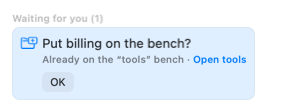
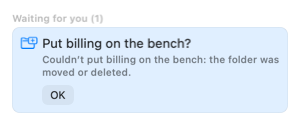
docs(design): merge-benches mockups and the new suggest-card failure text (#2003)

Changed region(s): [[0.03, 0.1071, 0.96, 0.9107], [0.15, 0.6964, 0.24, 0.8036], [0.3, 0.1071, 0.36, 0.1339]]

diff --git a/WatchtowerDesktop/Tests/DesignShots/MultiFolderShotFixtures.swift b/WatchtowerDesktop/Tests/DesignShots/MultiFolderShotFixtures.swift
@@ -20,9 +20,12 @@ enum MultiFolderShotFixtures {
             shot("suggest-card", width: 300) { MultiFolderSuggestCard(state: .ready) },
             shot("suggest-card-busy", width: 300) { MultiFolderSuggestCard(state: .busy) },
             shot("suggest-card-error", width: 300) { MultiFolderSuggestCard(state: .error) },
+            shot("suggest-card-merge", width: 300) { MultiFolderSuggestCard(state: .merge) },
             shot("remove-confirm", width: 360) { MultiFolderRemoveDialog(kind: .confirm) },
             shot("remove-refused-sessions", width: 360) { MultiFolderRemoveDialog(kind: .sessionsRunning) },
             shot("remove-refused-last", width: 360) { MultiFolderRemoveDialog(kind: .lastFolder) },
+            shot("merge-confirm", width: 360) { MultiFolderMergeDialog(refused: false) },
+            shot("merge-refused", width: 360) { MultiFolderMergeDialog(refused: true) },
             shot("feed-parent", width: 600) { MultiFolderFeedParent() },
             shot("strip-child", width: 760) { MultiFolderStripChild() },
             shot("board-card-folder", width: 380) { MultiFolderBoardCards() }
@@ -54,8 +57,14 @@ enum MultiFolderMockCopy {
     static let notNow = "Not Now"
     static let never = "Never for This Folder"
     static let putting = "Putting on the bench…"
-    static let alreadyOnOther = "Already on the “tools” bench"
-    static let openOther = "Open tools"
+    static let mergeSuggestSubtitle = "billing is on the “tools” bench"
+    static let mergeBenches = "Merge Benches…"
+    static let suggestFailed = "Couldn’t put billing on the bench: the folder was moved or deleted."
+    static let mergeTitle = "Merge “tools” into “acme”?"
+    static let mergeMessage = "tools's board (12 targets), asks and sessions move to acme, "
+        + "and tools leaves the workbench list. Folders that move: billing."
+    static let mergeRefusedTitle = "Can’t merge “tools” yet"
+    static let mergeRefused = "2 sessions are running in tools. Finish them first."
     static let removeTitle = "Remove hub from the bench?"
     static let removeMessage = "Watchtower's install in this folder is removed. Your files and git are not touched."
     static let sessionsRunning = "2 sessions are running in hub. Finish them first."
@@ -425,7 +434,7 @@ private struct MultiFolderNewSessionMenu: View {
 // MARK: - 6. The agent's folder suggestion
 
 private struct MultiFolderSuggestCard: View {
-    enum State { case ready, busy, error }
+    enum State { case ready, busy, error, merge }
     let state: State
 
     var body: some View {
@@ -449,10 +458,10 @@ private struct MultiFolderSuggestCard: View {
     }
 
     @ViewBuilder private var subtitle: some View {
-        if state == .error {
-            Text("\(MultiFolderMockCopy.alreadyOnOther) · \(Text(MultiFolderMockCopy.openOther).foregroundStyle(Color.accentColor))")
-        } else {
-            Text(MultiFolderMockCopy.suggestSubtitle)
+        switch state {
+        case .error: Text(MultiFolderMockCopy.suggestFailed)
+        case .merge: Text(MultiFolderMockCopy.mergeSuggestSubtitle)
+        default: Text(MultiFolderMockCopy.suggestSubtitle)
         }
     }
 
@@ -475,6 +484,12 @@ private struct MultiFolderSuggestCard: View {
             }
         case .error:
             Button("OK") {}.buttonStyle(.kitSecondary).controlSize(.small)
+        case .merge:
+            HStack(spacing: Spacing.small) {
+                Button(MultiFolderMockCopy.mergeBenches) {}.buttonStyle(.kitPrimary).fixedSize()
+                Button(MultiFolderMockCopy.notNow) {}.buttonStyle(.kitSecondary).fixedSize()
+            }
+            .controlSize(.small)
         }
     }
 }
@@ -533,6 +548,41 @@ private struct MultiFolderRemoveDialog: View {
         } else {
             Button("OK") {}.buttonStyle(.kitPrimary)
         }
+    }
+}
+
+/// The Merge Benches confirmation and its refusal (§6.13), drawn like the
+/// remove dialog.
+private struct MultiFolderMergeDialog: View {
+    let refused: Bool
+
+    var body: some View {
+        VStack(spacing: Spacing.medium) {
+            Image(systemName: refused ? "exclamationmark.triangle" : "arrow.triangle.merge")
+                .font(.largeTitle)
+                .foregroundStyle(refused ? AnyShapeStyle(Tone.warning) : AnyShapeStyle(.secondary))
+            VStack(spacing: Spacing.small) {
+                Text(refused ? MultiFolderMockCopy.mergeRefusedTitle : MultiFolderMockCopy.mergeTitle).font(.headline)
+                Text(refused ? MultiFolderMockCopy.mergeRefused : MultiFolderMockCopy.mergeMessage)
+                    .font(.callout).foregroundStyle(.secondary)
+            }
+            .multilineTextAlignment(.center)
+            .fixedSize(horizontal: false, vertical: true)
+            if refused {
+                Button("OK") {}.buttonStyle(.kitPrimary)
+            } else {
+                HStack(spacing: Spacing.regular) {
+                    Button("Cancel") {}.buttonStyle(.kitSecondary)
+                    Button("Merge") {}.buttonStyle(.kitPrimary)
+                }
+            }
+        }
+        .padding(Spacing.page)
+        .frame(width: 300)
+        .mockPopover()
+        .padding(Spacing.page)
+        .frame(maxWidth: .infinity)
+        .detailBackground()
     }
 }
 

diff --git a/docs/design/mockups/multi-folder/README.md b/docs/design/mockups/multi-folder/README.md
@@ -21,10 +21,13 @@ Each shot `workbench-multifolder-<name>` is saved here as `<name>-light.png` and
 | `new-session-menu` | New Session (+) menu with `in <folder>` submenus (the `in hub` one open) and the placement submenus | §6.4 |
 | `suggest-card` | Waiting for you card `Put billing on the bench?` with Put on Bench / Not Now, and the quiet Never for This Folder on its own line (the panel is 220 pt wide by default) | §6.7 |
 | `suggest-card-busy` | The same card while the add runs: `Putting on the bench…` | §6.7 |
-| `suggest-card-error` | The add failed: `Already on the “tools” bench · Open tools` and `OK` | §6.7 |
+| `suggest-card-error` | The add failed: `Couldn’t put billing on the bench: the folder was moved or deleted.` and `OK` | §6.7 |
+| `suggest-card-merge` | The card when the folder is on another bench: `Put billing on the bench?` / `billing is on the “tools” bench` with Merge Benches… / Not Now | §6.7, §6.13 |
 | `remove-confirm` | `Remove hub from the bench?` confirmation | §6.3 |
 | `remove-refused-sessions` | Refusal: `2 sessions are running in hub. Finish them first.` | §6.3 |
 | `remove-refused-last` | Refusal: `A workbench needs at least one folder.` | §6.3 |
+| `merge-confirm` | `Merge “tools” into “acme”?` confirmation: board (12 targets), asks and sessions move, `Folders that move: billing.`, Cancel / Merge | §6.13 |
+| `merge-refused` | Refusal: `Can’t merge “tools” yet` / `2 sessions are running in tools. Finish them first.` | §6.13 |
 | `feed-parent` | Parent's Workchat feed: sub-session started, message to, message from, sub-session finished, and a waiting message with `Open` | §6.6 |
 | `strip-child` | A sub-session's strip: `📁 hub › ⑂ export-api › ⎇ wt/export-api` ending with `↖ from “Export reports to PDF”` | §6.5 |
 | `board-card-folder` | Board cards with a folder chip before the branch, and a target whose folder left the bench (`folder removed`) | §6.10, §8 PROJ-07 |
